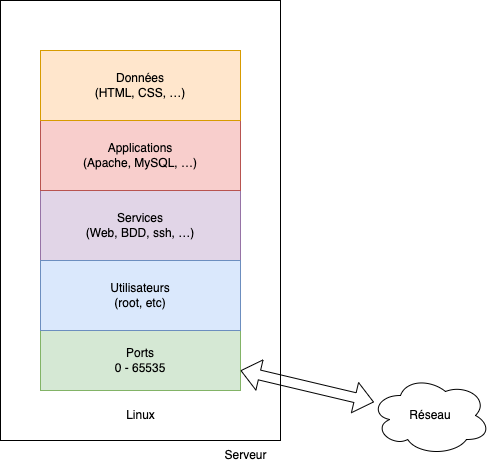
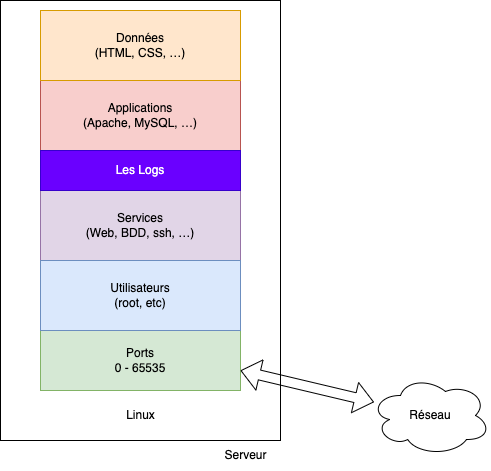
Ajout suite support de cours

Changed region(s): [[0.0611, 0.2972, 0.4888, 0.4161], [0.0611, 0.0, 0.4888, 0.1189], [0.1527, 0.1486, 0.4277, 0.2675]]

diff --git a/tp/devops/serveur/support.md b/tp/devops/serveur/support.md
@@ -186,9 +186,15 @@ Pour éviter tout problème (erreur, sécurité, etc), il est également intére
 
 ## L'accès à distance
 
-Pour accéder à votre serveur, nous allons utiliser un **service** nommé SSH. Ce service permet de se connecter à distance à votre serveur. Il est très utilisé et très sécurisé.
+Vous vous doutez que nous n'accédons pas à un serveur comme nous accédons à une machine physique (via un clavier et un souris), nous allons utiliser un accès à distance. Il existe plusieurs méthodes pour accéder à distance à votre serveur :
 
-Le service SSH est installé par défaut sur la plupart des distributions Linux. Pour vérifier que le service est bien installé, vous pouvez utiliser la commande suivante :
+- SSH
+- FTP
+- SFTP
+
+Pour prendre la main sur votre serveur, nous allons utiliser le protocole SSH. Le **service** SSH permet de se connecter à distance à votre serveur. Il est très utilisé et très sécurisé.
+
+Il est installé par défaut sur la plupart des distributions Linux. Pour vérifier que le service est bien installé, vous pouvez utiliser la commande suivante :
 
 ```bash
 systemctl status ssh
@@ -202,7 +208,7 @@ systemctl enable ssh
 
 ### Les clés SSH
 
-Nous avons parlé des utilisateurs, nous avons parlé également des mots de passe. Lors de l'accès à distance à votre serveur, il est intéressant d'utiliser des clés SSH. 
+Nous avons parlé des utilisateurs, nous avons parlé également des mots de passe. Lors de l'accès à distance à votre serveur, il est intéressant d'utiliser des clés SSH.
 
 Pourquoi ? Parce que les mots de passe sont plus faciles à deviner que les clés SSH.
 
@@ -211,7 +217,7 @@ Une clé SSH est composée de deux parties :
 - Une clé privée : elle est stockée sur votre ordinateur. Elle est utilisée pour se connecter à votre serveur.
 - Une clé publique : elle est stockée sur votre serveur. Elle est utilisée pour vérifier que vous êtes bien le propriétaire de la clé privée.
 
-TODO mettre une image sur le fonctionnement des clés SSH
+![Clé SSH](./res/asymmetric-encryption.png)
 
 Pour générer une clé SSH, vous pouvez utiliser la commande suivante :
 
@@ -226,7 +232,7 @@ Cette commande va générer deux fichiers :
 
 ::: danger La clé privée
 
-Cette clé privée doit être protégée. Si quelqu'un a accès à cette clé privée, il pourra se connecter à votre serveur. Il est donc important de la protéger. 
+Cette clé privée doit être protégée. Si quelqu'un a accès à cette clé privée, il pourra se connecter à votre serveur. Il est donc important de la protéger.
 
 :::
 
@@ -252,22 +258,167 @@ Pratique, non ?
 
 ### Fonctionnement d'une clé SSH
 
-Lorsque vous vous connectez à votre serveur avec la commande `ssh`, le serveur va vérifier que la clé publique que vous avez envoyé correspond à la clé privée que vous avez sur votre ordinateur. Si c'est le cas, vous êtes connecté.
+Lorsque vous vous connectez à votre serveur avec la commande `ssh`, le serveur va vérifier que la clé publique que vous avez envoyée correspond à la clé privée que vous avez sur votre ordinateur. Si c'est le cas, vous êtes connecté.
 
 Techniquement il y a plusieurs étapes :
 
-- Le serveur génère un nombre aléatoire et le chiffre avec la clé privée.
-- Le serveur envoie le chiffre au client.
+- Le serveur génère une donnée aléatoire et le chiffre avec la clé privée et calcule le hash md5 de la valeur chiffré.
+- Le serveur envoie la donnée au client.
 - Le client déchiffre le chiffre avec la clé publique.
-- Le client renvoie le chiffre déchiffré au serveur.
-- Le serveur déchiffre le chiffre avec la clé privée.
-- Si les deux chiffres sont identiques, le serveur accepte la connexion.
+- Le client renvoie le hash md5 de la valeur déchiffré au serveur.
+- Si les deux md5 sont identiques, le serveur accepte la connexion.
+
+![Fonctionnement d'une clé SSH](./res/ssh-key-based-authentication.png)
 
 Nous parlons donc ici d'un chiffrement asymétrique. Il existe également un chiffrement symétrique.
 
 ## Les sauvegardes
 
-TODO 
+Qui dit serveur, dit … sauvegarde ! Il est important de sauvegarder son serveur pour éviter de perdre des données. Les sauvegardes ont plusieurs objectifs :
+
+- Sauvegarder les données (évidemment).
+- Sauvegarder les fichiers de configuration.
+- Sauvegarder les bases de données.
+
+Mais surtout elles doivent être **automatiques** pour ne pas les oublier (via un script mis dans un cron). Les sauvegardes doivent être **régulières** (tous les jours, toutes les semaines, tous les mois …). 
+
+Les sauvegardes doivent être **sécurisées** (chiffrées, stockées sur un autre support …).
+
+### Sauvegarder les données
+
+Pour sauvegarder les données, il existe plusieurs solutions :
+
+- Sauvegarder les données sur un autre serveur.
+- Sauvegarder les données sur un disque externe.
+- Sauvegarder les données sur un service de stockage en ligne.
+
+Dans tous les cas, il s'agit de sauvegarder les données sur une autre machine que le serveur. Pourquoi ? Parce que si le serveur tombe en panne, vous n'aurez plus accès aux données.
+
+Les sauvegardes sont également un élément sensible de la machine. En effet, elles vont contenir l'ensemble des données de celui-ci (les mots de passe y compris). Elles sont donc très sensibles, et ~peuvent~ doivent être chiffrées pour éviter que des personnes malveillantes ne puissent les récupérer.
+
+### Les types de sauvegardes
+
+Il existe plusieurs types de sauvegardes :
+
+- Sauvegarde complète : sauvegarde de l'ensemble des données.
+- Sauvegarde incrémentale : sauvegarde des données modifiées depuis la dernière sauvegarde.
+- Sauvegarde différentielle : sauvegarde des données modifiées depuis la dernière sauvegarde complète.
+
+Les sauvegardes incrémentales et différentielles sont plus rapides que les sauvegardes complètes. Mais elles sont plus complexes à mettre en place. En fonction du temps à passer et du volume des données à sauvegarder, vous pouvez choisir l'une ou l'autre.
+
+### Exemple de script de sauvegarde
+
+Voici un exemple de script de sauvegarde complet :
+
+```bash
+#!/bin/bash
+
+# Sauvegarde des données
+rsync -avz --delete /home/ /media/backup/home/
+
+# Sauvegarde de la base de données
+mysqldump -u root -p --all-databases > /media/backup/databases.sql
+```
+
+Ce script va sauvegarder les données du dossier `/home` et la base de données dans le dossier `/media/backup`.
+
+Voici un exemple de script de sauvegarde incrémentale :
+
+```bash
+#!/bin/bash
+
+# Sauvegarde des données
+rsync -avz --delete --link-dest=/media/backup/home/ /home/ /media/backup/home/
+
+# Sauvegarde de la base de données
+mysqldump -u root -p --all-databases > /media/backup/databases.sql
+```
+
+Ce script va sauvegarder les données du dossier `/home` et la base de données dans le dossier `/media/backup`.
+
+::: Comment l'automatiser ?
+
+Vous pouvez automatiser la sauvegarde en créant un script et en le mettant dans un cron. Voici un exemple de cron :
+
+```bash
+0 0 * * * /home/backup.sh
+```
+
+Ce cron va exécuter le script `/home/backup.sh` tous les jours à minuit.
+
+:::
+
+## Les logs
+
+Maintenant que nous avons vu comment fonctionnent les rudiments d'un serveur, nous allons nous intéresser aux logs. Les logs sont des fichiers qui contiennent les informations sur les actions effectuées sur le serveur. Ils sont très utiles pour débugger un serveur.
+
+Différents types de logs existent sur votre serveur :
+
+- Les logs du serveur (Apache, Nginx …).
+- Les logs des applications (WordPress, …).
+- Les logs des bases de données (MySQL, …).
+
+Et plusieurs niveaux de logs existent :
+
+- Les logs d'erreurs (erreurs, alertes …).
+- Les logs de débogage (informations …).
+
+En général, les logs d'erreurs sont plus importants que les logs de débogage. En effet, les logs d'erreurs vont vous permettre de débugger votre serveur. Les logs de débogage vont vous permettre de voir ce qui se passe sur votre serveur.
+
+::: tip Point cybersécurité
+
+Les logs sont des fichiers qui contiennent des informations sensibles. Les logs d’Apache ou Nginx contiennent entre autres les accès au votre serveur. Ils sont donc utiles pour observer si vous subissez des attaques. Ils sont également très sensibles, et très attractifs pour des attaquants.
+
+Si votre organisation le permet, les logs peuvent être externalisés pour être centralisés dans un serveur centralisé. Ce qui va permettre de les sécuriser, ainsi que les analyser plus facilement (avec des outils comme Kibana, Graylog…).
+
+:::
+
+### Les logs du serveur
+
+Les logs du serveur sont généralement stockés dans le dossier `/var/log`. Il est possible de les consulter avec la commande `tail` :
+
+```bash
+tail -f /var/log/apache2/access.log
+```
+
+Cette commande va afficher les logs du serveur Apache en temps réel. Le `-f` permet de suivre les logs en temps réel (sans avoir à relancer la commande).
+
+### Comment les analyser ?
+
+Une partie du travail du DevOps est d'analyser les logs. Il est important de savoir lire les logs, et de savoir les interpréter. Il est également important de savoir les analyser. Il existe plusieurs outils pour analyser les logs :
+
+- tail : affiche les logs en temps réel.
+- nano : éditeur de texte.
+- vim : éditeur de texte.
+- Kibana : outil de visualisation des logs.
+- Graylog : outil de centralisation des logs.
+
+Vous pouvez avoir différentes erreurs dans vos logs :
+
+- Des erreurs de configuration serveur. (ex. : mauvaise configuration d’Apache, erreur de type 500).
+- Des erreurs d'application. (ex. : erreur dans le code de votre site en PHP, erreur de type 500).
+- Des erreurs de type ressource introuvables. (ex : un fichier n'existe pas, erreur de type 404).
+
+### Exemple de logs
+
+Log de type 404 :
+
+```bash
+127.0.0.1 - - [28/Jul/2022:10:27:32 -0300] "GET /hidden/ HTTP/1.0" 404 7218
+```
+
+Comment lire ce log ? :
+
+- `127.0.0.1` : adresse IP de l'utilisateur ayant fait la requête.
+- `28/Jul/2022:10:27:32 -0300` : date et heure de la requête.
+- `GET /hidden/ HTTP/1.0` : méthode HTTP, URL, version HTTP.
+- `404` : code HTTP. (404 = ressource introuvable)
+
+::: tip Point lecture de log
+
+La lecture de logs est un exercice important. Il faut s'entraîner, ça vous permettra de mieux comprendre ce qui se passe sur votre serveur, et de mieux corriger vos erreurs.
+
+:::
 
 ## Physique ou virtuel ?
 
